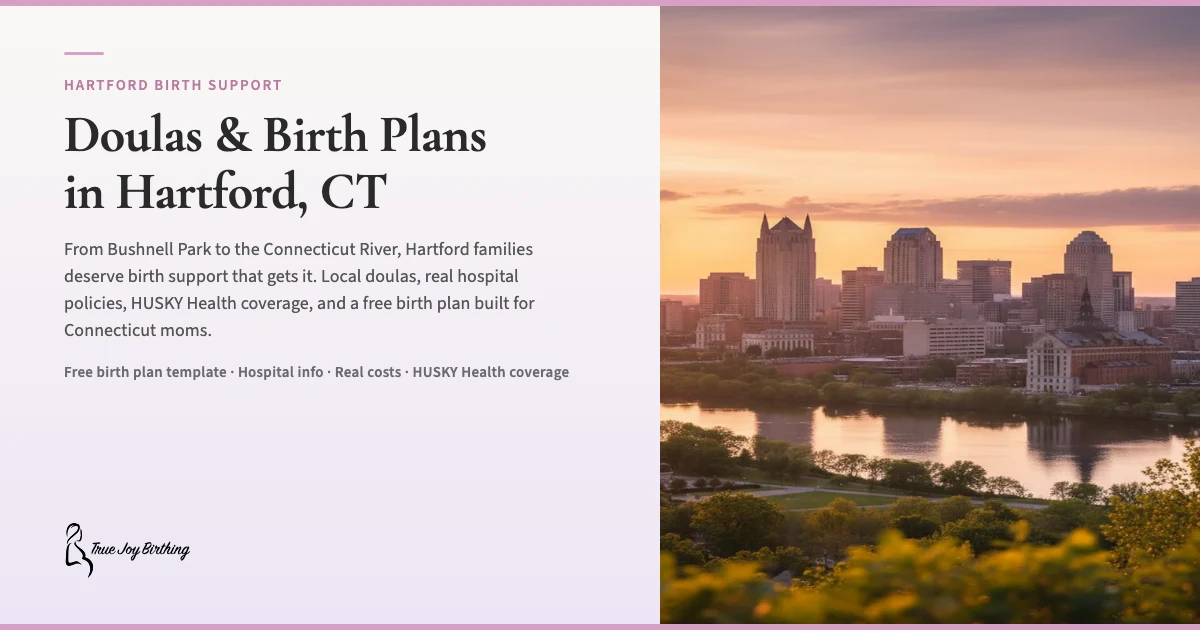
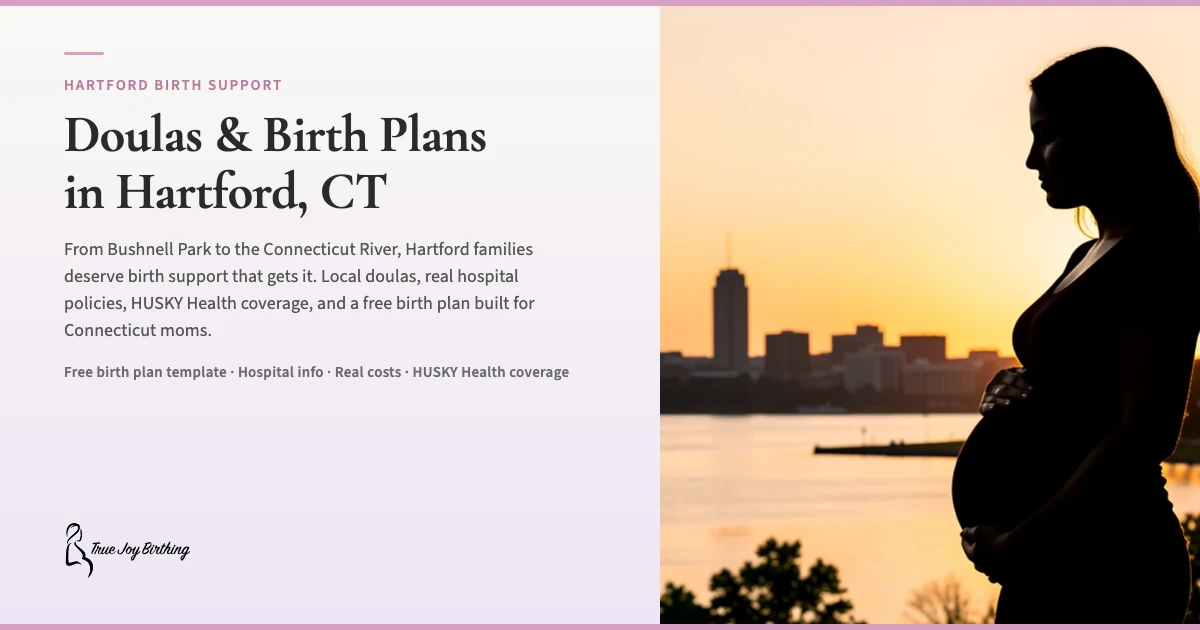
fix: remove video thumbnail overlay, update OG image with new hero, custom support scene for Hartford
- Video: removed YouTube maxresdefault facade, now direct iframe embed (no thumbnail over video)
- OG image: re-rendered with new pregnant woman silhouette hero (was old skyline)
- Support scene: custom generated image (pregnant woman + doula in Hartford home setting)
- 51 passed, 0 failed, 5 skipped

diff --git a/scripts/og-city-hartford-ct-composition.html b/scripts/og-city-hartford-ct-composition.html
@@ -155,7 +155,7 @@
                      template built for Colorado moms."
   Free birth plan template · Hospital info · Real costs · HUSKY Health coverage     → e.g. "Free birth plan template · Hospital info · Real costs · Medicaid coverage"
                      (Use · separator between items)
-  https://truejoybirthing.com/images/hartford-ct-birth-doula-skyline.webp  → Production URL of city hero image, or gradient fallback.
+  https://truejoybirthing.com/images/hartford-ct-birth-doula-hero-v3.webp  → Production URL of city hero image, or gradient fallback.
                      Denver: https://truejoybirthing.com/images/denver-hero-front-range.webp
                      Other cities without hero: Use branded gradient div instead (see below)
   https://truejoybirthing.com/images/logo-mono.svg    → https://truejoybirthing.com/images/logo-mono.svg
@@ -195,7 +195,7 @@
     </div>
   </div>
   <div class="right-column">
-    <img src="https://truejoybirthing.com/images/hartford-ct-birth-doula-skyline.webp" alt="Hartford" />
+    <img src="https://truejoybirthing.com/images/hartford-ct-birth-doula-hero-v3.webp" alt="Hartford" />
   </div>
 </div>
 </body>

diff --git a/src/data/cities.ts b/src/data/cities.ts
@@ -1897,7 +1897,7 @@ export const cities: Record<string, CityData> = {
     shelbiServesHere: false,
     heroImage: "/images/hartford-ct-birth-doula-hero-v3.webp",
     ogImage: "https://truejoybirthing.com/images/og-city-hartford-ct.webp",
-    supportSceneImage: "/images/hartford-ct-birth-doula-support-v2.webp",
+    supportSceneImage: "/images/hartford-ct-birth-doula-support-v3.webp",
     supportSceneAlt: "A doula supporting an expectant mom in Hartford with Connecticut River autumn foliage",
     lat: 41.7658,
     lng: -72.6734,
